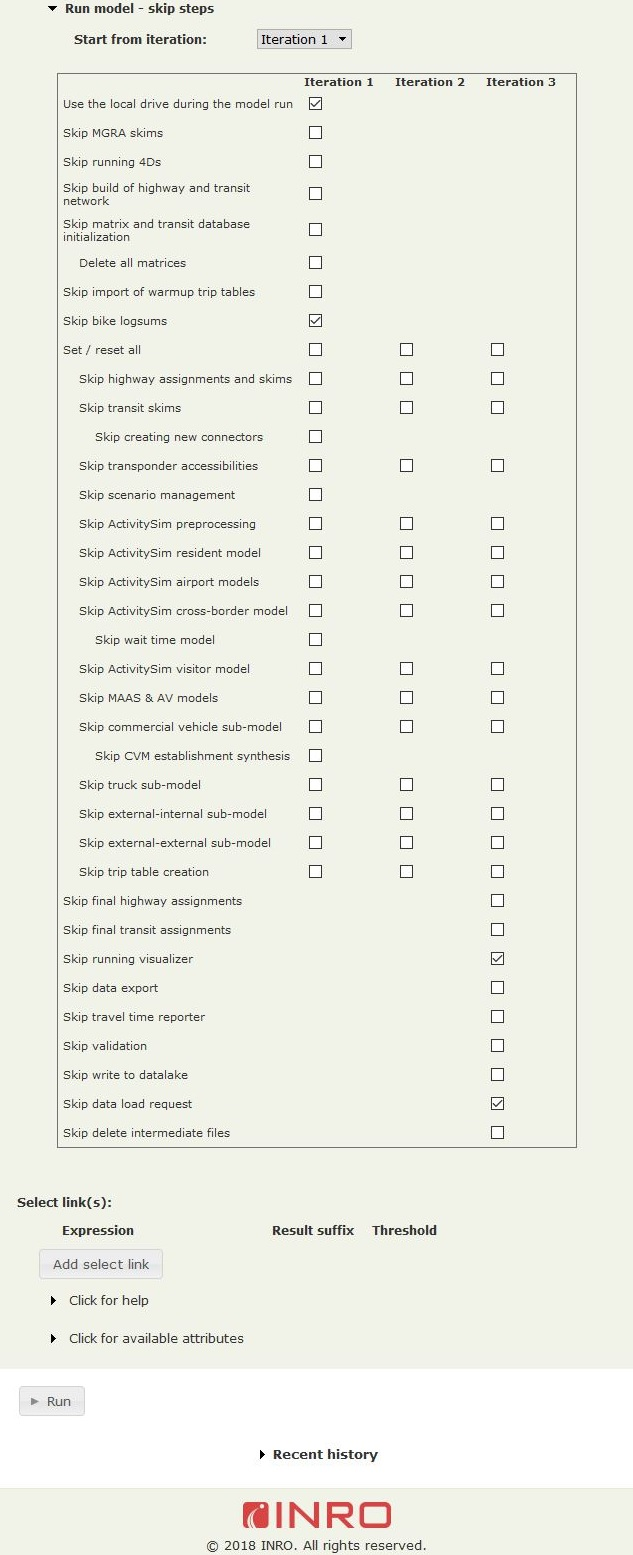
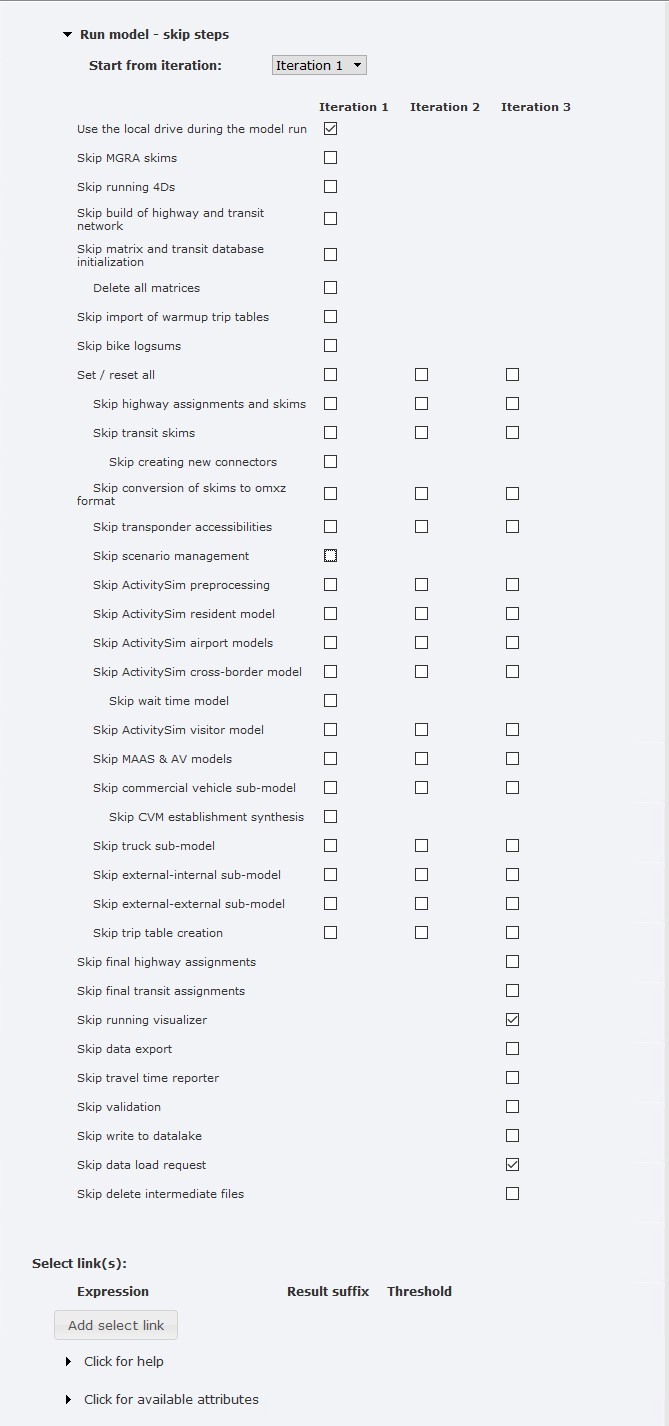
update images with current OpenPaths EMME

diff --git a/docs/running.md b/docs/running.md
@@ -12,13 +12,13 @@ Follow the steps below to create an ABM3 scenario directory:
 * Log onto available server and ensure:
     1. Server's C Drive has at least 500 GB worth of space
     2. You are logged onto the Bentley CONNECTION Client license manager software
-* Using the server’s Windows Explorer, navigate to the latest approved ABM3 release. As of March 2025, this is *T:\ABM\release\ABM\version_15_2_2*
+* Using the server’s Windows Explorer, navigate to the latest approved ABM3 release. As of March 2026, this is *T:\ABM\release\ABM\version_15_3_1*
 * Double click on *createStudyAndScenario.bat* and click Run.
 * On pop-up, fill out the fields under *Create an ABM scenario*.
-    * **EMME Version**: As of March 2025, only available version is 4.3.7
+    * **EMME Version**: As of March 2026, EMME version is OpenPaths EMME 25.00.01
     * **Year**: Using drop-down menu, select scenario year you'd like to run
     * **Base**: Whether you would like to run a Build or No Build scenario. Note that the base 2022 year only has the option to run as Base.
-    * **Geography ID**: Leave as 1. As of March 2025, this field has no functionality. 
+    * **Geography ID**: Leave as 1. As of March 2026, this field has no functionality. 
     * **Scenario Folder**: File path you would like to create scenario at. The tool will create the directory if it doesn't already exist. For cases where you point to an exisitng directory, the tool will notify users that location exists to avoid unintended overwriting.
     * **Network Folder**: File path to input network. 
     * **Land Use Folder**: File path to input land use files.
@@ -28,7 +28,7 @@ Follow the steps below to create an ABM3 scenario directory:
 
 ## Running ABM3
 
-To open the EMME application from the created scenario directory, users need to go to the *emme_project* folder, and double-click on the *start_emme_with_virtualenv.bat* file. This opens up the EMME application, where the application prompts the choice of a scenario. It is recommended to select the main highway scenario (Scen. 100) to start off the model run, although other scenarios may be selected as well. 
+To open the EMME application from the created scenario directory, users need to go to the *emme_project* folder, and double-click on the *emme_project.emp* file. This opens up the EMME application, where the application prompts the choice of a scenario. It is recommended to select the main highway scenario (Scen. 100) to start off the model run, although other scenarios may be selected as well. 
 
 Following this step, users should open the *EMME Modeler* by clicking on the gold square icon at the top left of the screen. 
 <br>
